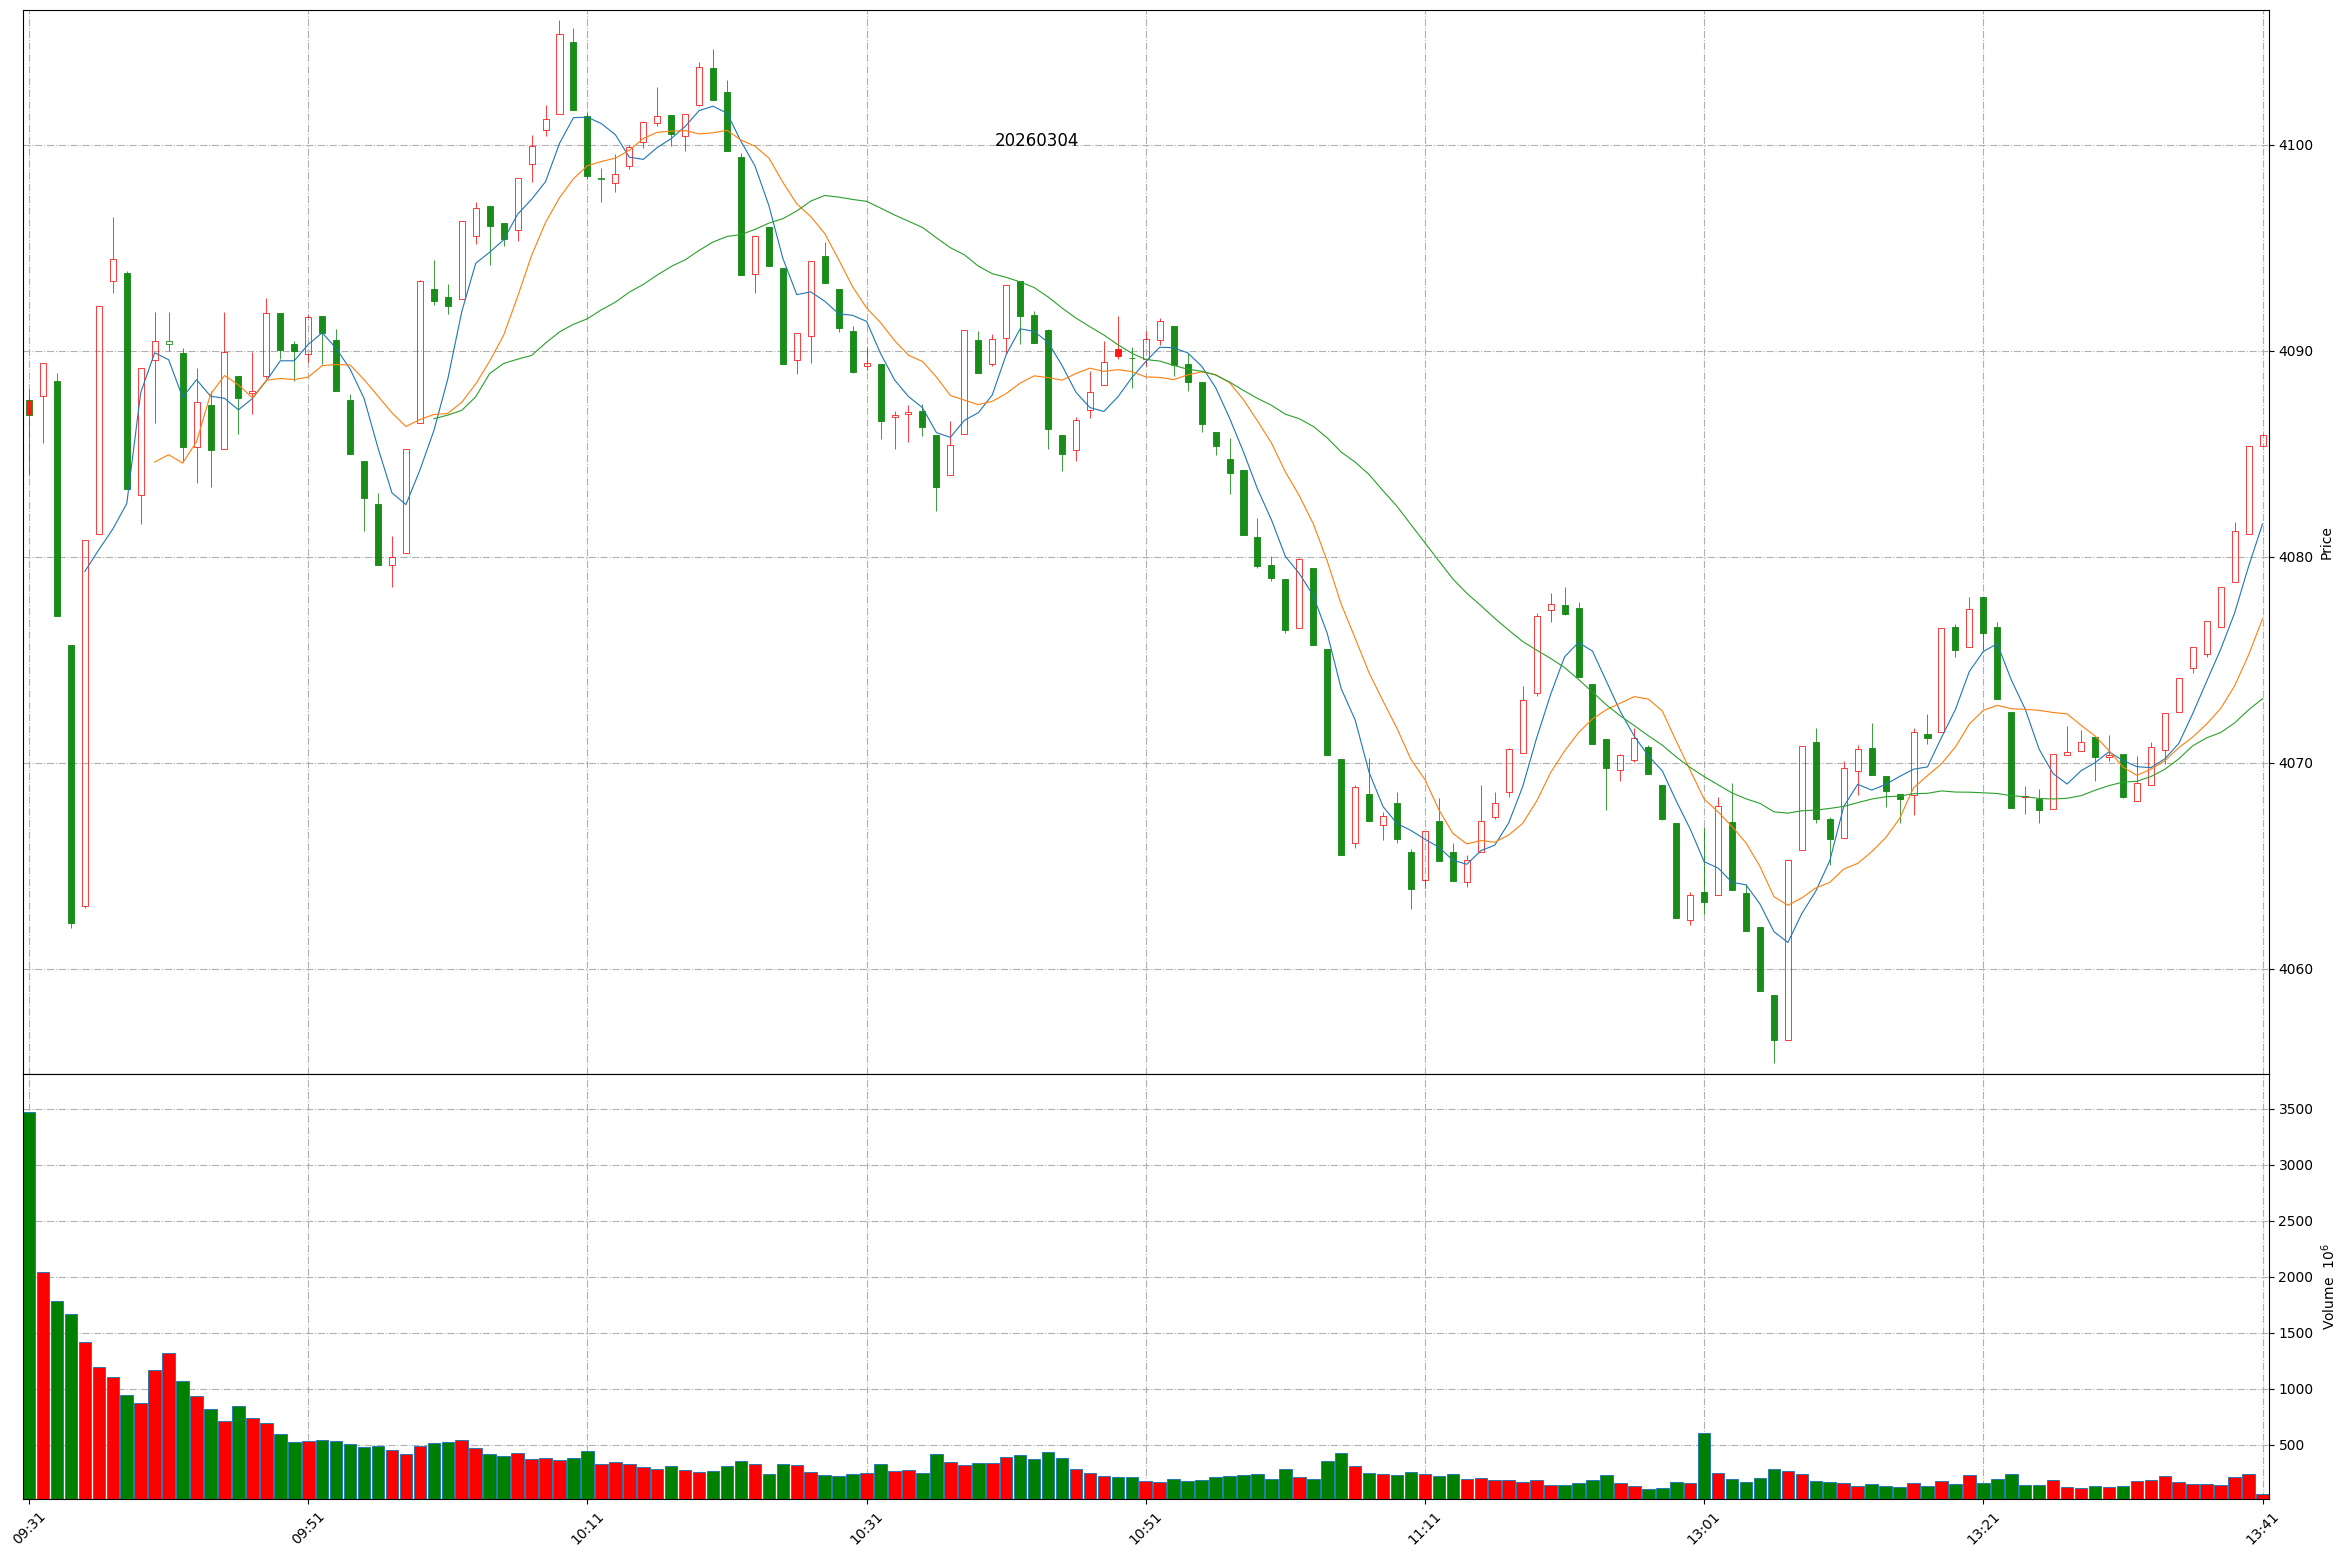
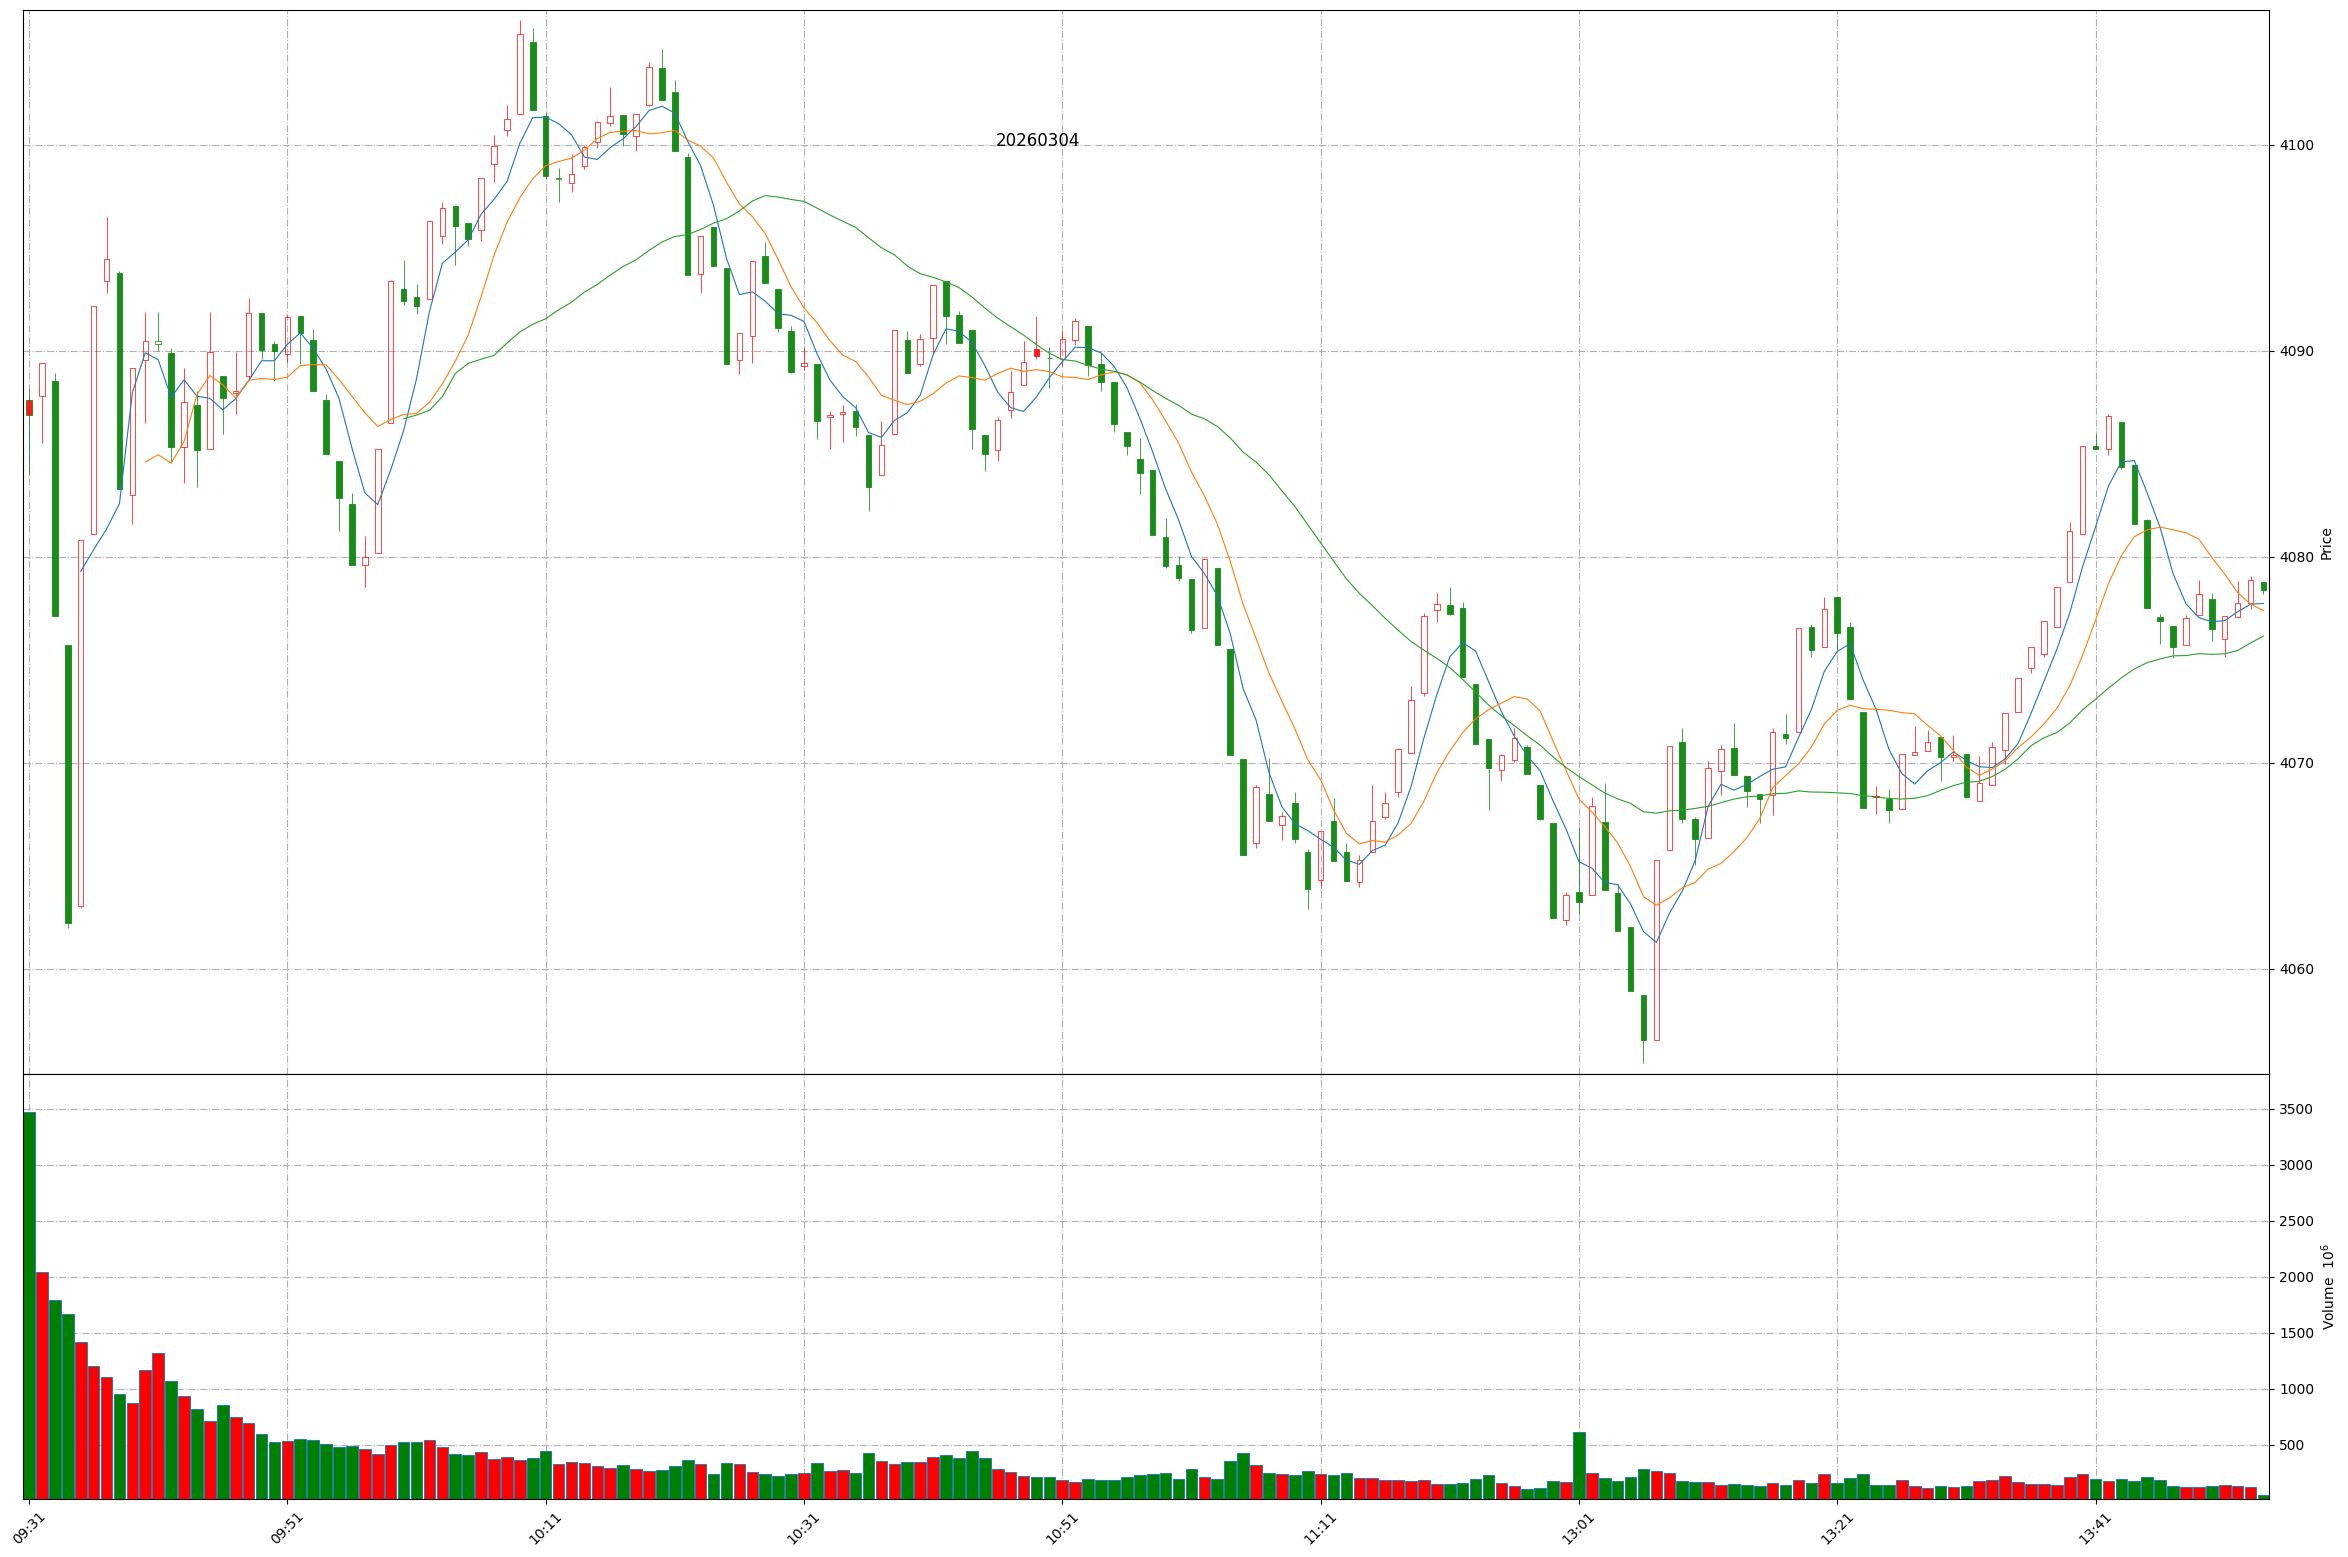
Github action update at 2026-03-04 13:53:41.

diff --git a/README.md b/README.md
@@ -1,11 +1,11 @@
 
 # Daily-A-share-market-quotes 每日 A 股指数（5min 更新）- 20260304
 
-### 上证指数 20260304 13:40
+### 上证指数 20260304 13:53
 ![](./fig/2026/3/20260304-sh000001.png)
 
-### 深证成指 20260304 13:40
+### 深证成指 20260304 13:53
 ![](./fig/2026/3/20260304-sz399001.png)
 
-### 北证50 20260304 13:40
+### 北证50 20260304 13:53
 ![](./fig/2026/3/20260304-bj899050.png)
